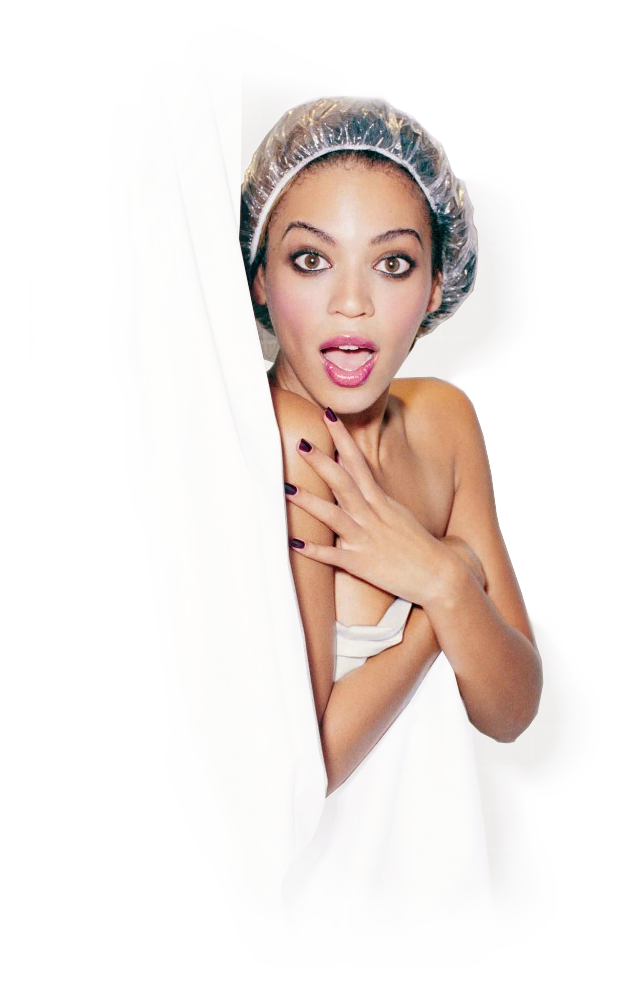
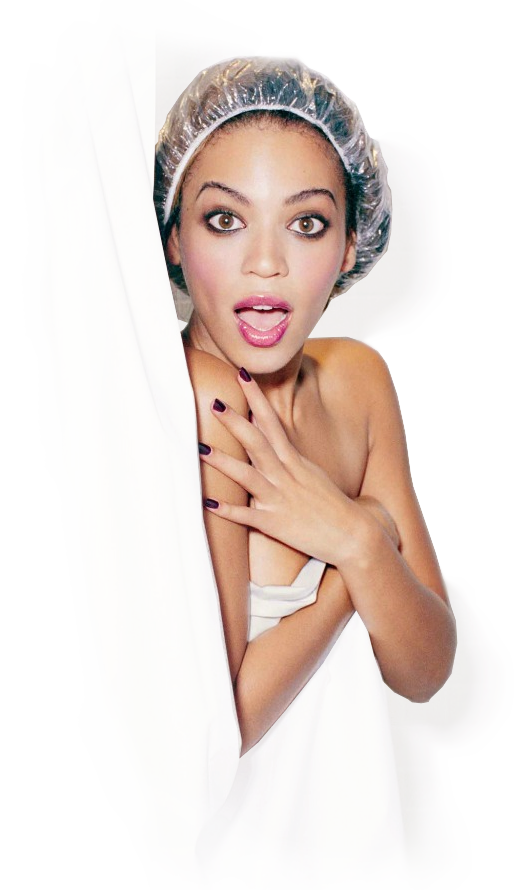
Improved look of 404

Changed region(s): [[0.2802, 0.0607, 0.9027, 0.8494]]

diff --git a/templates/notfound.html b/templates/notfound.html
@@ -1,10 +1,12 @@
 <div class="container">
+    <div class="row">
+        <h2 class="text-center text-muted">404 - Oops, wrong door...</h2>
+    </div>
 	<div class="row">
 		<div class="col-md-4"> </div>
-		<div class="col-md-4">
-			<h2>404 - Not Found</h2>
-			<img src="/img/404.png" />
+		<div class="col-md-3">
+			<img class="img-responsive" src="/img/404.png" />
 		</div>
-		<div class="col-md-4"> </div>
+		<div class="col-md-5"> </div>
 	</div>
 </div>

diff --git a/css/kanban.css b/css/kanban.css
@@ -54,3 +54,7 @@ table th, table td {
     -moz-box-sizing: border-box;
     box-sizing: border-box;
 }
+
+.border {
+    border: 1px solid #FF0000;
+}
